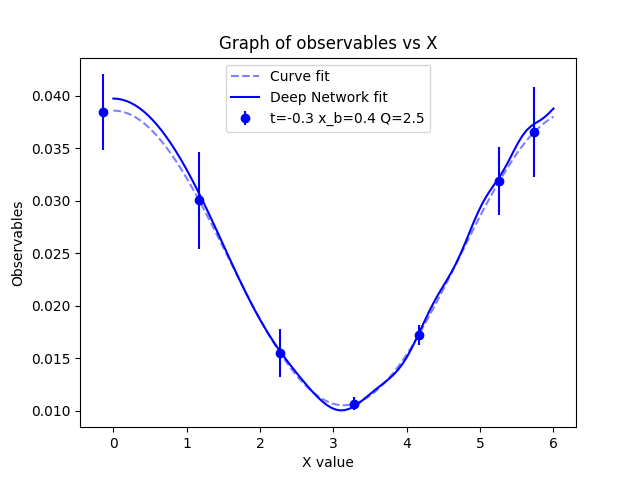
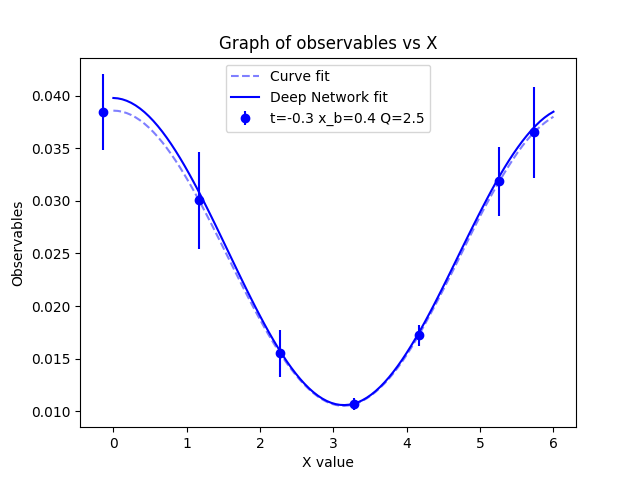
added some new networks

diff --git a/Compton_FF_Code/calculate_params.py b/Compton_FF_Code/calculate_params.py
@@ -175,9 +175,9 @@ num_inputs = 6
 num_outputs = 3
 learning_rate = 0.03
 regularization_rate = 0.1
-F_error_scaling = np.array([[0.03], [0.03], [0.12]])
-iterations = 1400
-batch_size = 5
+F_error_scaling = np.array([[0.03], [0.03], [0.09]])
+iterations = 1800
+batch_size = 6
 layers = [num_inputs, 12, num_outputs]
 
 
@@ -331,7 +331,7 @@ while(True):
         
         x_axis = np.linspace(0, 6, num=100)
         data1, dnn_curve1 = get_graph_arrays(line1, x_axis, model_deep_network)
-        true_curve1 = calculate_observable(data1, p0, p1, p2)
+        true_curve1 = calculate_observable(data1, param0_list[line1], param1_list[line1], param2_list[line1])
 
         plt.title('Graph of observables vs X')
 
